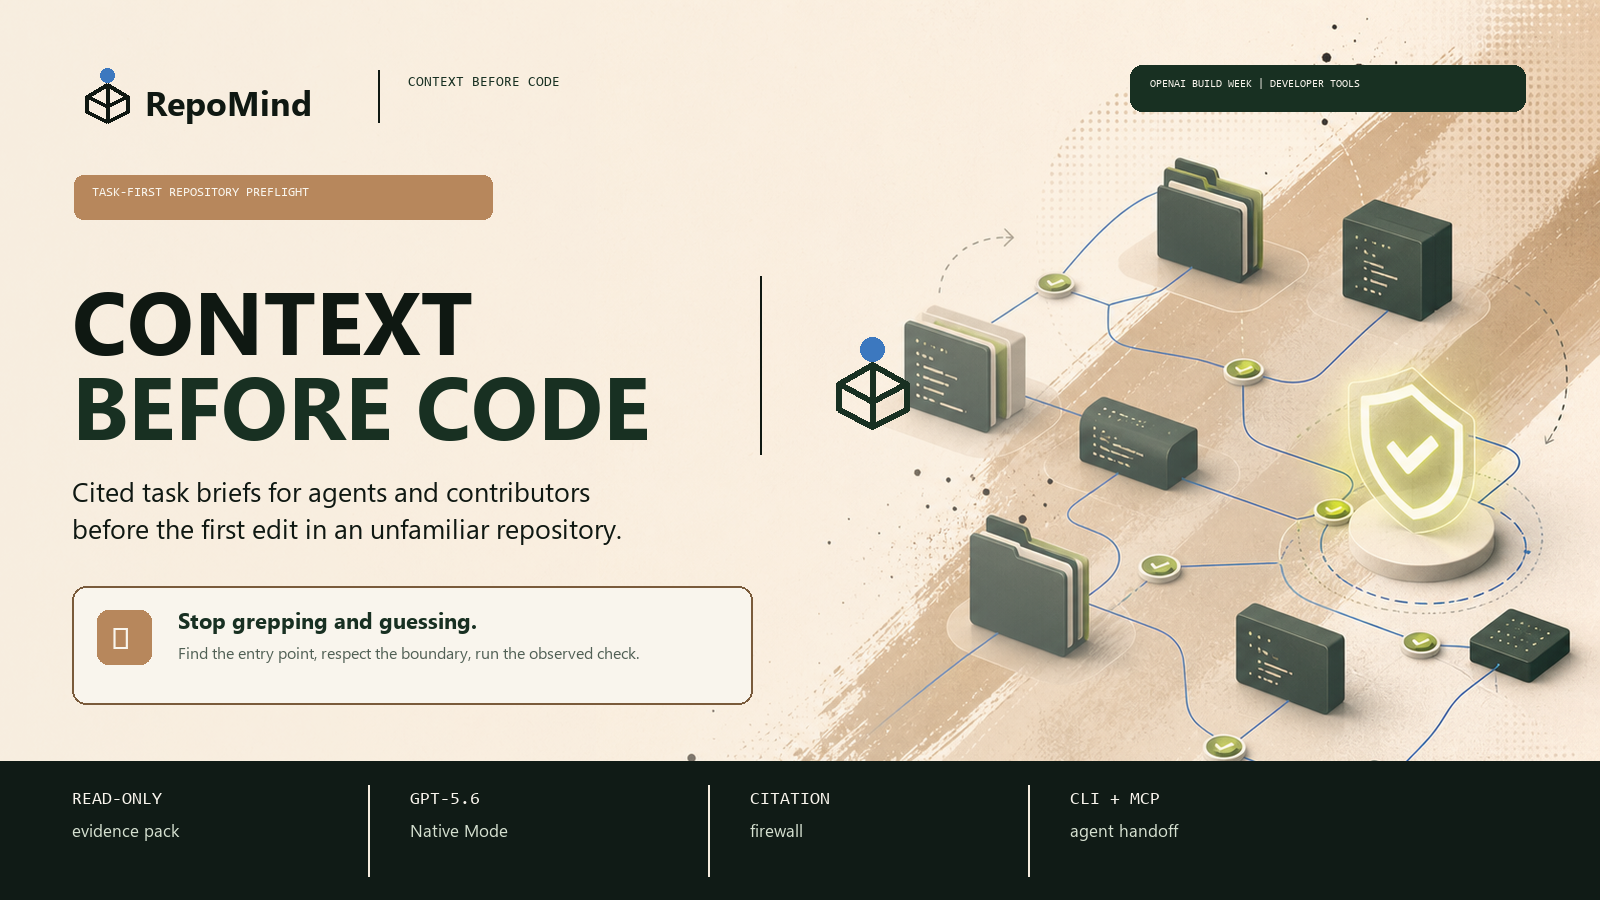
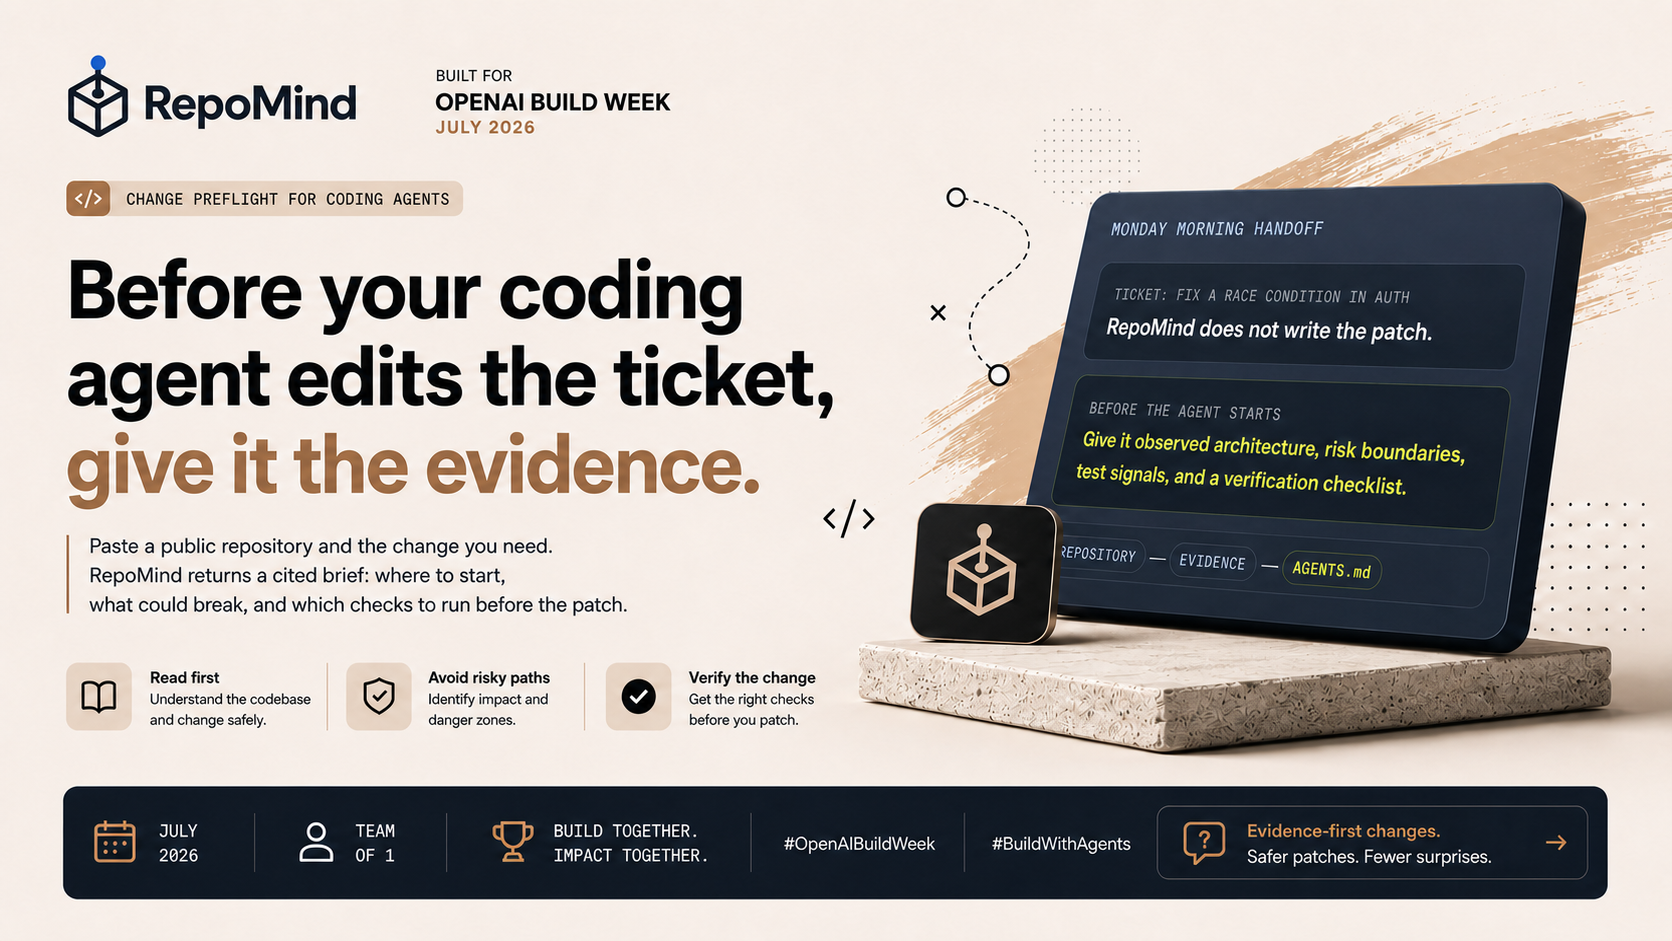
docs: publish safe Build Week cover

diff --git a/frontend/index.html b/frontend/index.html
@@ -10,8 +10,8 @@
     <meta property="og:description" content="Give coding agents cited context before the first edit." />
     <meta property="og:type" content="website" />
     <meta property="og:image" content="https://raw.githubusercontent.com/Kesav2k04/RepoMind/main/frontend/public/repomind-social.png" />
-    <meta property="og:image:width" content="1200" />
-    <meta property="og:image:height" content="630" />
+    <meta property="og:image:width" content="1672" />
+    <meta property="og:image:height" content="941" />
     <meta property="og:image:alt" content="RepoMind gives coding agents cited context before the first edit." />
     <meta name="twitter:card" content="summary_large_image" />
     <meta name="twitter:title" content="RepoMind | Context before code" />